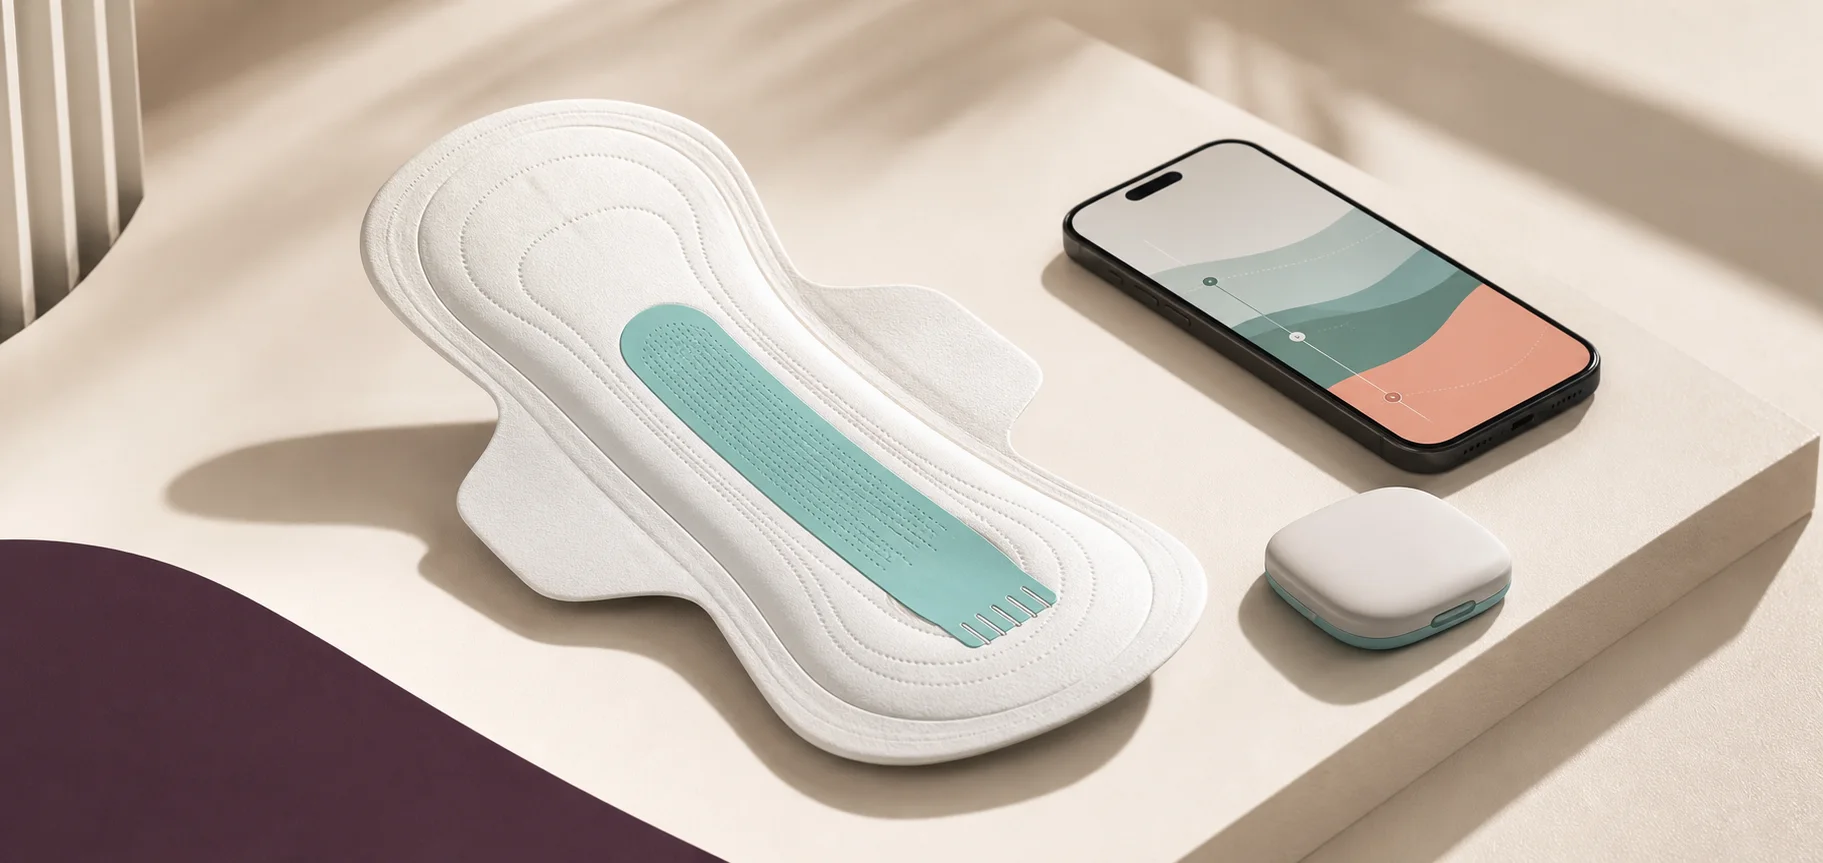
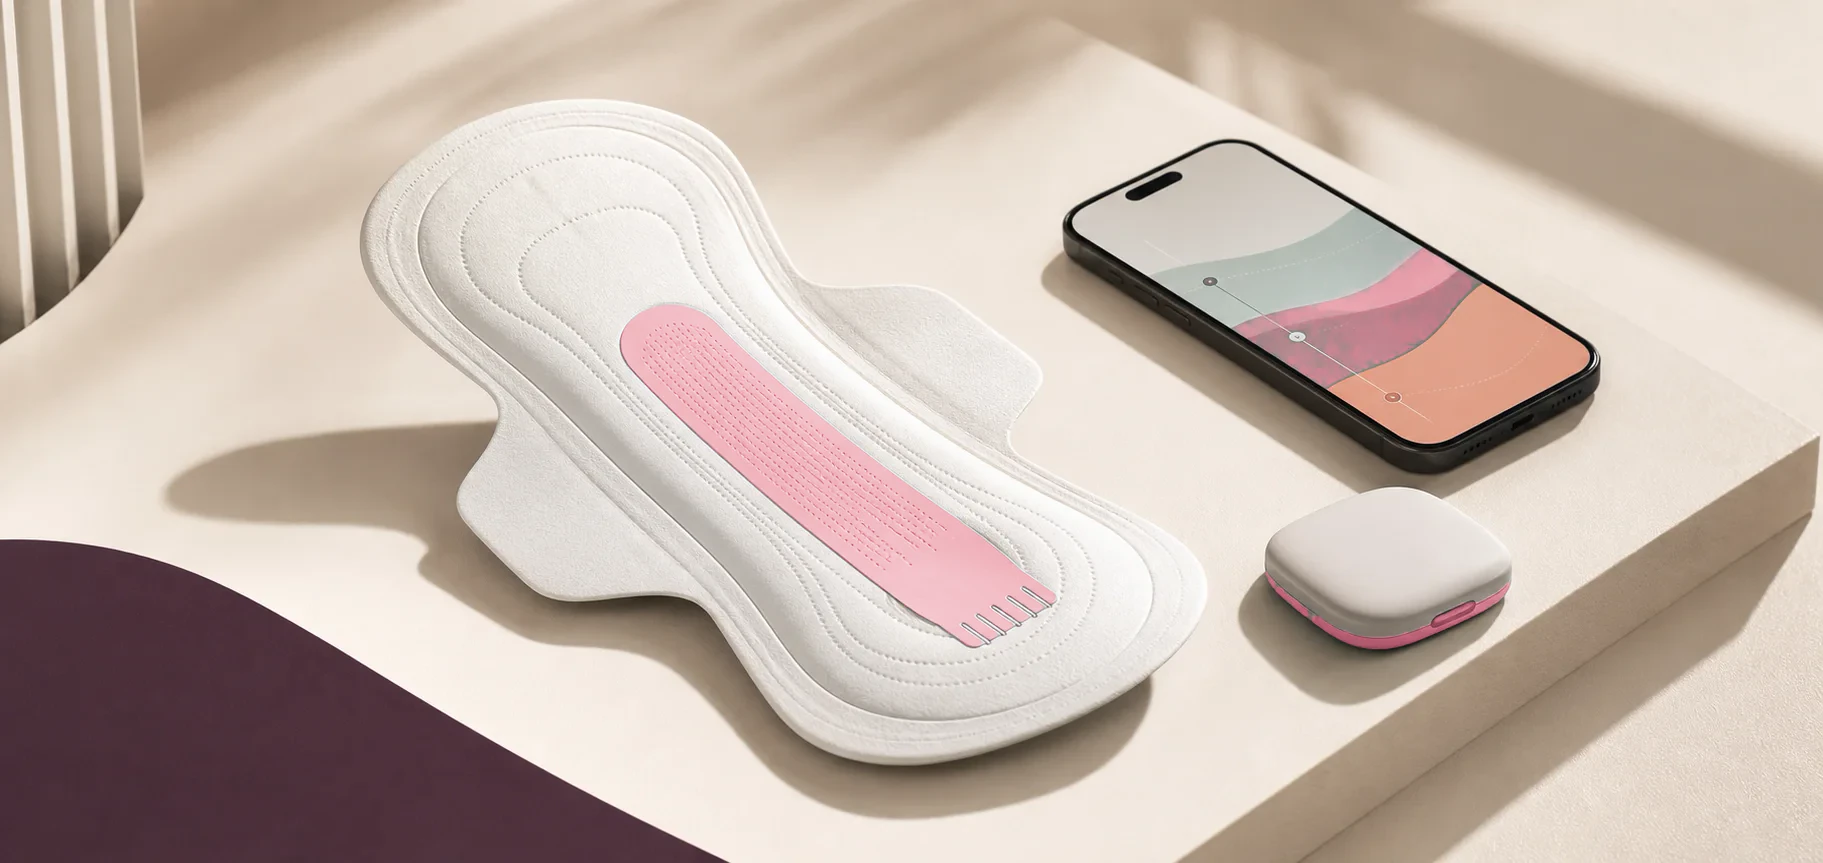
Lead with the new slogan and refresh EVA and team imagery
- Hero headline is now "See What Cannot Be Seen."
- Social share image: replace the old tagline with the new slogan
  (same artwork); versioned og:image URL and added alt text.
- EVA hero render: recolor the teal sensor strip, reader band, and app
  screen to the EVA rose palette to match the current product design.
- Team: reframe Alyssa Sharrow's and Fritz Sonnichsen's tightly cropped
  portraits (new optional portraitScale in team-data.js), defringe
  Alyssa's cut-out, and clean up Fritz's photo with a feathered shirt
  extension so both match the other portraits.

diff --git a/assets/page-extensions.css b/assets/page-extensions.css
@@ -96,6 +96,13 @@
   transform-origin: center bottom; transition: transform .9s var(--ease);
 }
 .team-directory .team-card:hover .team-card__portrait img { transform: scale(1.045); }
+/* Tightly cropped photos (portraitScale in team-data.js) are shown whole, bottom-anchored, and scaled
+   so faces match the other portraits; their image edges are feathered in the WebP itself. */
+.team-directory .team-card__portrait--fitted img {
+  object-fit: contain; object-position: center bottom;
+  transform: scale(var(--portrait-scale, 1)); transform-origin: 50% 100%;
+}
+.team-directory .team-card:hover .team-card__portrait--fitted img { transform: scale(calc(var(--portrait-scale, 1) * 1.045)); }
 .team-card__body { padding: 18px 20px 22px; }
 .team-directory .team-card h3 { font-size: 21px; font-weight: 600; line-height: 1.2; letter-spacing: -.022em; }
 .team-directory .team-card__role { margin-top: 4px; font-size: 15px; line-height: 1.35; }
@@ -222,8 +229,8 @@
 .eva-product-stage__legend { bottom: clamp(16px, 2.4vw, 30px); flex-wrap: wrap; gap: 8px 22px; }
 .eva-product-stage__legend span { display: inline-flex; align-items: center; gap: 8px; }
 .eva-product-stage__legend i { width: 7px; height: 7px; border-radius: 50%; background: var(--eva-rose); box-shadow: 0 0 10px rgba(233, 119, 134, .9); }
-.eva-product-stage__legend span:nth-child(2) i { background: #5fd0e0; box-shadow: 0 0 10px rgba(95, 208, 224, .9); }
-.eva-product-stage__legend span:nth-child(3) i { background: #f5d6df; box-shadow: none; }
+.eva-product-stage__legend span:nth-child(2) i { background: #f7b6c2; box-shadow: 0 0 10px rgba(247, 182, 194, .9); }
+.eva-product-stage__legend span:nth-child(3) i { background: #fff; box-shadow: none; }
 .eva-hero-disclaimer {
   display: flex; flex-wrap: wrap; align-items: baseline; justify-content: center; gap: 4px 12px;
   width: fit-content; max-width: var(--page); margin: 28px auto 0; padding: 12px 22px;

diff --git a/index.html b/index.html
@@ -9,11 +9,12 @@
   <meta property="og:description" content="Advanced electrochemical sensing systems for complex water environments.">
   <meta property="og:type" content="website">
   <meta property="og:url" content="https://we-sensing.com/">
-  <meta property="og:image" content="https://we-sensing.com/assets/og/we-sensing-social.jpg">
+  <meta property="og:image" content="https://we-sensing.com/assets/og/we-sensing-social.jpg?v=20261001">
+  <meta property="og:image:alt" content="WE-Sensing — See What Cannot Be Seen">
   <meta property="og:image:width" content="1200">
   <meta property="og:image:height" content="630">
   <meta name="twitter:card" content="summary_large_image">
-  <meta name="twitter:image" content="https://we-sensing.com/assets/og/we-sensing-social.jpg">
+  <meta name="twitter:image" content="https://we-sensing.com/assets/og/we-sensing-social.jpg?v=20261001">
   <title>WE-Sensing | Electrochemical sensing for complex water</title>
   <script>document.documentElement.classList.add('js');</script>
   <link rel="preconnect" href="https://fonts.googleapis.com">
@@ -63,7 +64,7 @@
 
       <div class="hero-copy page-width">
         <p class="hero-eyebrow"><span>Electrochemical intelligence</span><span>Complex fluids</span></p>
-        <h1 id="hero-title">Make invisible chemistry <em>measurable.</em></h1>
+        <h1 id="hero-title">See What <em>Cannot Be Seen.</em></h1>
         <p class="hero-intro">WE-Sensing develops advanced electrochemical sensing systems that reveal how complex water environments change over time.</p>
         <div class="hero-actions">
           <a class="btn btn-primary" href="#workflow">Explore the sensing system</a>

diff --git a/eva/index.html b/eva/index.html
@@ -36,7 +36,7 @@
   <link rel="icon" href="../assets/logos/web/eva-icon-32.png?v=20261001" sizes="32x32" type="image/png">
   <link rel="icon" href="../assets/logos/web/eva-icon-192.png?v=20261001" sizes="192x192" type="image/png">
   <link rel="apple-touch-icon" href="../assets/logos/web/eva-apple-touch.png?v=20261001">
-  <link rel="preload" as="image" href="../assets/eva/eva-hero-product.webp" fetchpriority="high">
+  <link rel="preload" as="image" href="../assets/eva/eva-hero-product.webp?v=20261001" fetchpriority="high">
   <link rel="stylesheet" href="../style.css">
   <link rel="stylesheet" href="../assets/page-extensions.css">
   <script src="../scripts/eva-content.js" defer></script>
@@ -87,7 +87,7 @@
 
       <figure class="eva-product-stage" data-expand>
         <div class="eva-product-stage__frame">
-          <img src="../assets/eva/eva-hero-product.webp" width="1823" height="863" alt="Concept render of the EVA smart sensing pad, detachable reusable reader, and application" fetchpriority="high">
+          <img src="../assets/eva/eva-hero-product.webp?v=20261001" width="1823" height="863" alt="Concept render of the EVA smart sensing pad, detachable reusable reader, and application" fetchpriority="high">
           <div class="eva-product-stage__label"><span>Product system</span><span>Concept view</span></div>
           <figcaption class="eva-product-stage__legend"><span><i></i>Sensing pad</span><span><i></i>Reusable electronics</span><span><i></i>Longitudinal view</span></figcaption>
         </div>

diff --git a/scripts/team-data.js b/scripts/team-data.js
@@ -47,7 +47,10 @@
             role: 'Product Design',
             initials: 'AS',
             portrait: 'assets/team/web/alyssasharrow.webp',
-            portraitAlt: 'Alyssa Sharrow'
+            portraitAlt: 'Alyssa Sharrow',
+            // Tightly cropped source photo: show it whole and smaller so the face
+            // matches the framing of the other portraits.
+            portraitScale: 1.15
           },
           {
             id: 'fritz-sonnichsen',
@@ -55,7 +58,8 @@
             role: 'Electronics Engineering',
             initials: 'FS',
             portrait: 'assets/team/web/fritzsonnichsen.webp',
-            portraitAlt: 'Fritz Sonnichsen'
+            portraitAlt: 'Fritz Sonnichsen',
+            portraitScale: 1.1
           }
         ]
       },

diff --git a/company/index.html b/company/index.html
@@ -9,7 +9,8 @@
   <meta property="og:description" content="Meet the multidisciplinary team supporting WE-Sensing and EVA.">
   <meta property="og:type" content="website">
   <meta property="og:url" content="https://we-sensing.com/company">
-  <meta property="og:image" content="https://we-sensing.com/assets/og/we-sensing-social.jpg">
+  <meta property="og:image" content="https://we-sensing.com/assets/og/we-sensing-social.jpg?v=20261001">
+  <meta property="og:image:alt" content="WE-Sensing — See What Cannot Be Seen">
   <meta name="twitter:card" content="summary_large_image">
   <link rel="canonical" href="https://we-sensing.com/company">
   <title>Company and Team | WE-Sensing</title>

diff --git a/scripts/team-renderer.js b/scripts/team-renderer.js
@@ -20,6 +20,11 @@
       image.loading = 'lazy';
       image.decoding = 'async';
       frame.appendChild(image);
+      // Optional per-member framing for tightly cropped source photos.
+      if (member.portraitScale) {
+        frame.classList.add('team-card__portrait--fitted');
+        frame.style.setProperty('--portrait-scale', String(member.portraitScale));
+      }
     } else {
       frame.classList.add('team-card__portrait--placeholder');
       frame.setAttribute('role', 'img');

diff --git a/IMPLEMENTATION_HANDOFF.md b/IMPLEMENTATION_HANDOFF.md
@@ -143,7 +143,7 @@ Defined at the top of `style.css` (and mirrored in `styles/site.less` for Square
 | `--line` | `#D2D2D7` | Borders |
 | `--blue` | `#0A72D1` | Buttons, eyebrows, focus |
 | `--aqua` / `--aqua-bright` | `#20C9BC` / `#5FF0E0` | Signal accents on dark stages |
-| `--grad-water` | leaf green → aqua → blue | Hero “measurable.”, statement highlights |
+| `--grad-water` | leaf green → aqua → blue | Hero “Cannot Be Seen.”, statement highlights |
 | `--grad-water-deep` | darker variant | Footer slogan on light backgrounds |
 | `--eva-rose` / `--eva-rose-deep` | `#E97786` / `#C4445B` | EVA accents / EVA buttons and eyebrows |
 | `--grad-eva` | rose → berry | EVA headline and lead highlights |
@@ -201,7 +201,7 @@ Review at 1440, 1024, 768, and 390 CSS pixels after visual changes. Do not add f
 The homepage layout is, in order:
 
 1. Fixed translucent global navigation (dark over dark sections, light elsewhere)
-2. Hero — parent-company positioning over the live fluid/electrode canvas with its HUD labels
+2. Hero — the “See What Cannot Be Seen.” slogan over the live fluid/electrode canvas with its HUD labels
 3. Statement and core capabilities — “An integrated path from chemistry to context.” with four icons
 4. Water monitoring problem — sticky monitor story for Context, Continuity, and Interpretation
 5. Workflow — “From fluid to decision.” as a four-node signal pipeline
@@ -284,9 +284,9 @@ Long-form EVA copy remains duplicated between `eva/index.html` and `blocks/eva-p
 | Homepage EVA steps | `assets/eva/web/eva-pad.webp`, `eva-logger.webp`, `application.webp` |
 | EVA gallery | `assets/eva/web/` copies of `eva-pad`, `eva-pad-back`, `sensing-layer`, `logger-detach`, `starterkit`, `application` |
 | EVA technology visual | `assets/eva/web/eva-concept.webp` |
-| EVA hero / social visual | `assets/eva/eva-hero-product.webp`, `assets/eva/eva-open-graph.webp` |
-| Parent social visual | `assets/og/we-sensing-social.jpg` |
-| Team portraits | `assets/team/web/{lowercase-full-name}.webp` |
+| EVA hero / social visual | `assets/eva/eva-hero-product.webp` (teal elements recolored to the EVA rose palette in October 2026; the original is in Git history) and `assets/eva/eva-open-graph.webp` (still the earlier teal concept) |
+| Parent social visual | `assets/og/we-sensing-social.jpg` — tagline updated to “See What Cannot Be Seen.” (referenced with `?v=20261001` so platforms refresh their cached copy) |
+| Team portraits | `assets/team/web/{lowercase-full-name}.webp`; Alyssa Sharrow’s copy is defringed, and Fritz Sonnichsen’s is denoised with his shirt extended and feathered at the sides. Both use `portraitScale` in `team-data.js` so their faces match the other portraits |
 | Team-at-work image | `assets/team/team-at-work.webp` (1024w) and `assets/team/web/team-at-work-2000.webp` (2000w, exported from `background_img1.png`) via `srcset` |
 
 Every `web/` file is an optimized WebP copy of the PNG source beside it (transparency preserved); together they replace roughly 45 MB of PNG downloads with about 1 MB. The sources are kept, and the HTML `width`/`height` attributes match the WebP dimensions. `eva-concept` and `application` carry faint white halos in the source renders, so they are always staged on white surfaces. Use `<img>` and `object-fit: contain` for product renders.

diff --git a/README.md b/README.md
@@ -126,7 +126,7 @@ Squarespace template assets have a documented per-file limit; optimize final ima
 ## Adding or updating a team member
 
 1. Obtain the approved display name, role, group, portrait, and permission to publish.
-2. Keep the source portrait under `assets/team/` and export a WebP copy to `assets/team/web/` (a transparent head-and-shoulders cut-out matches the current set; the card supplies the background).
+2. Keep the source portrait under `assets/team/` and export a WebP copy to `assets/team/web/` (a transparent head-and-shoulders cut-out matches the current set; the card supplies the background). If the photo is cropped much tighter than the others, add `portraitScale` to the member (see Alyssa Sharrow and Fritz Sonnichsen): the card then shows the whole cut-out, bottom-anchored, at that scale so faces line up across the directory.
 3. Add or update one member object in `scripts/team-data.js`. Do not hard-code a second copy in a page template.
 4. Use `featured: true` only for members intentionally included in the homepage preview; the current preview is limited to the three Co-Founders.
 5. Add an approved biography only when it is verified. If none is approved, omit `biography`; the layout does not require filler copy.
@@ -169,7 +169,7 @@ For Squarespace, use the existing `contactFormBlocks` field in `site.region`:
 - Development roadmap statuses are intentionally unassigned until project leadership approves them.
 - The EVA Open Graph image is suitable for initial review but still requires brand and product-accuracy approval.
 - Square favicons (`assets/logos/web/*-icon-*.png`, `*-apple-touch.png`) are cropped from the existing logo emblems; a designer-made favicon package is still recommended.
-- The Open Graph image `assets/og/we-sensing-social.jpg` still shows the previous tagline “Make invisible chemistry measurable.”
+- The EVA Open Graph image `assets/eva/eva-open-graph.webp` still shows the earlier teal sensor-strip concept; the EVA hero render was recolored to the rose design in October 2026.
 - Partner logos must not be added without permission and verified relationship wording.
 
 ## Files and functionality that must not be removed
